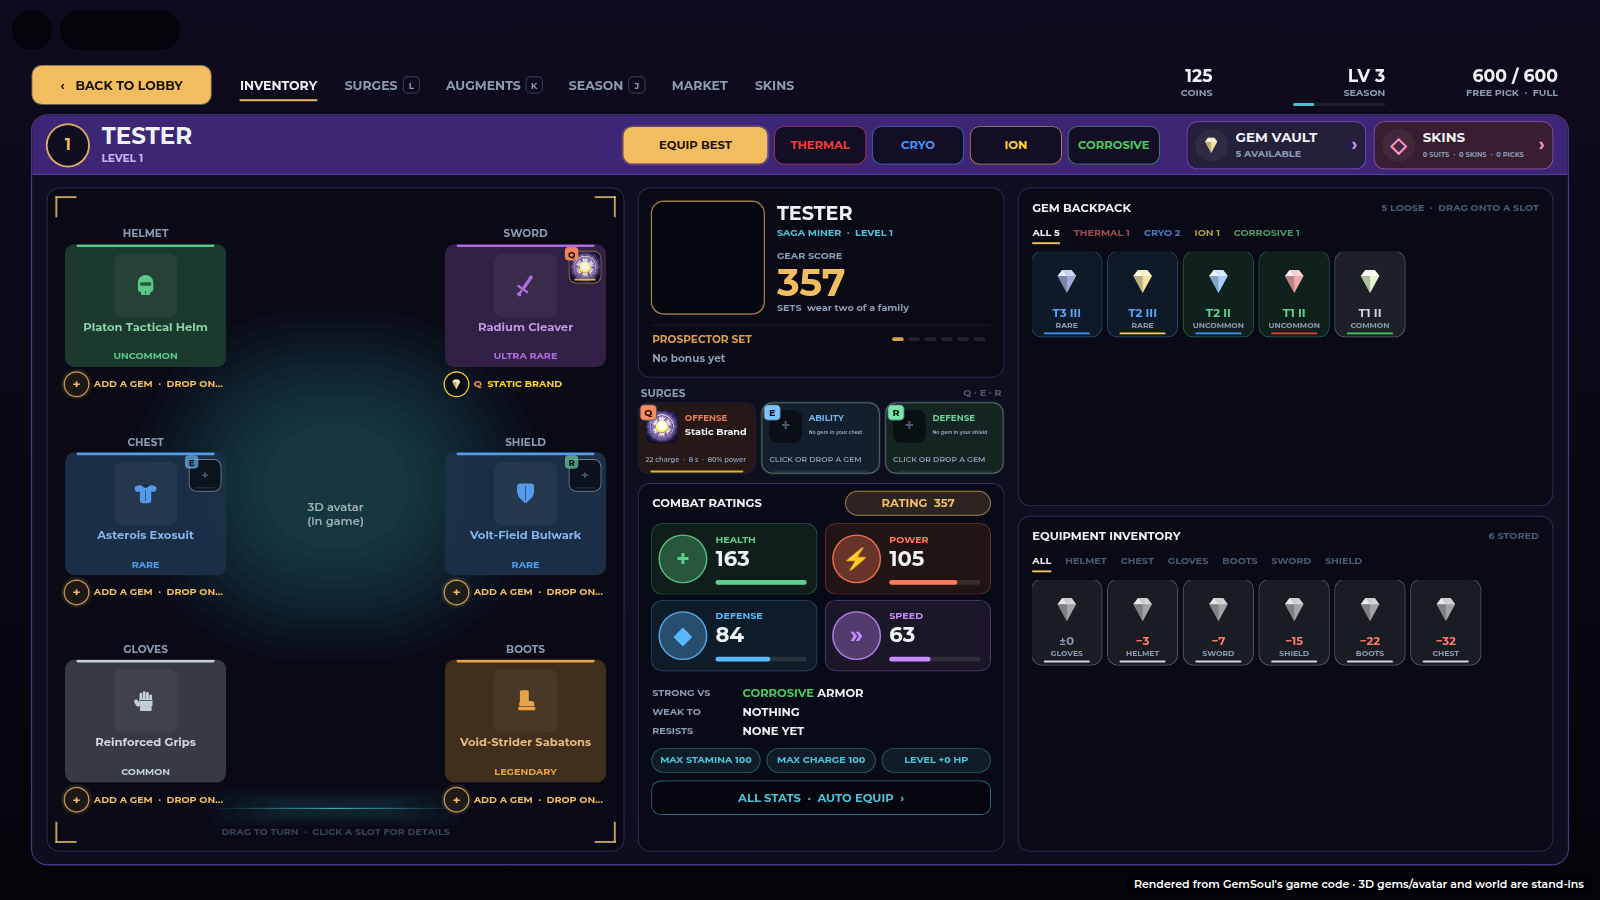
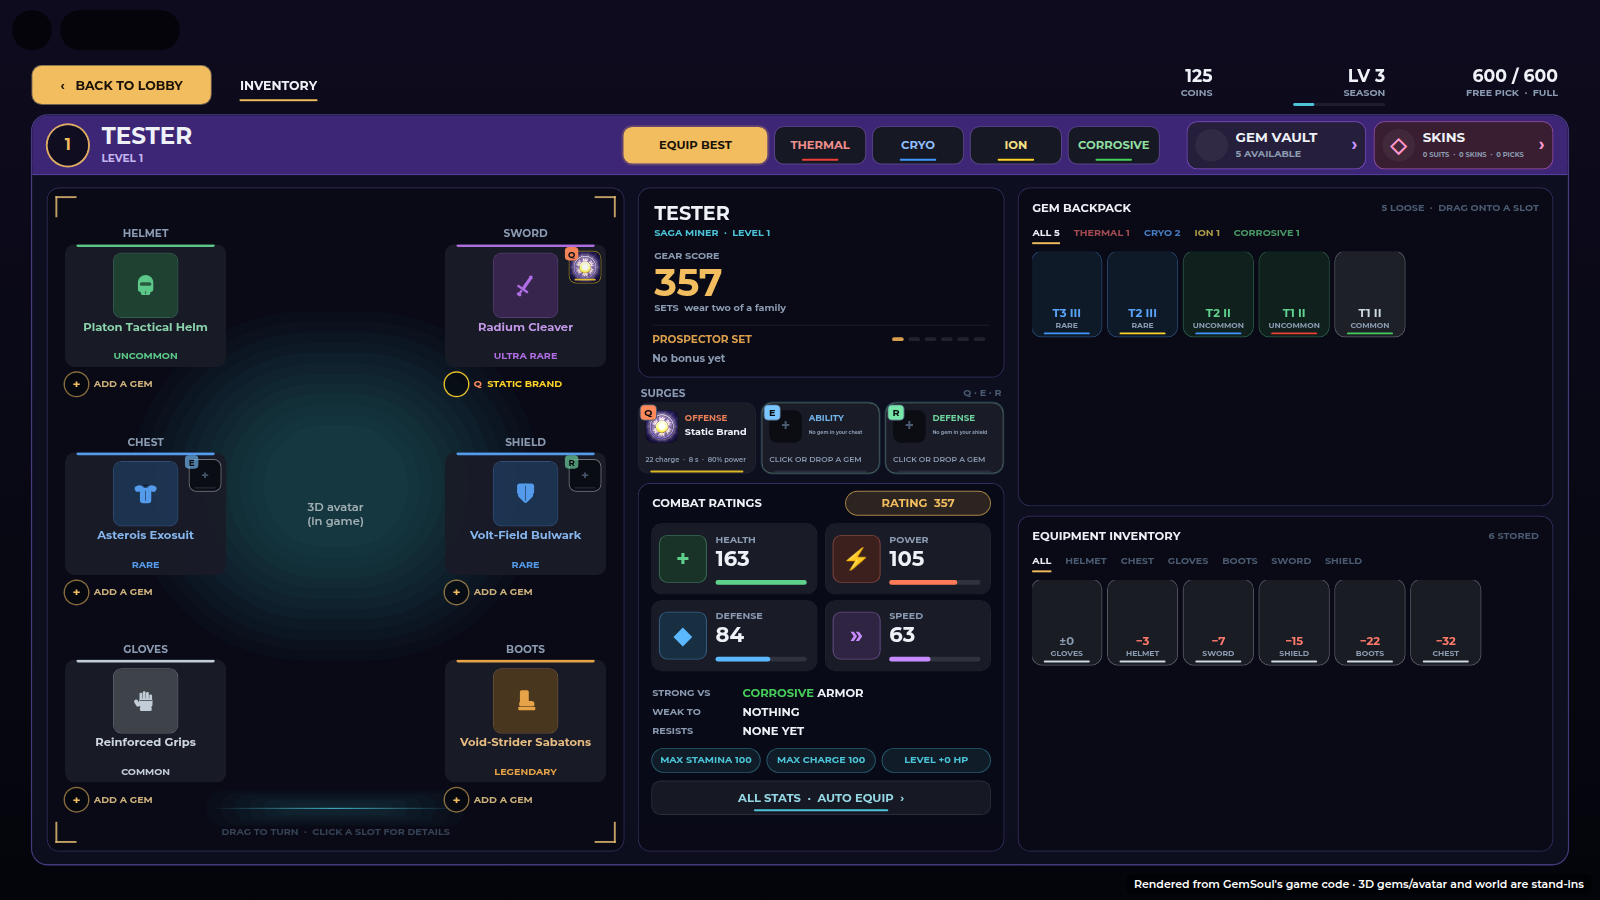
Inventory: a calmer look, same layout
One dark card for every slot, stat tile and Q/E/R key instead of a colour
wash over each. A slot's rarity is its top rail, its words and the well
its 3D art sits in (edged in the rarity under the pointer, gold while
its window is open); a stat's colour is its icon and its bar, the label
plain; Q, E and R keep their coloured badges. One gold button, EQUIP
BEST; ALL STATS, SKINS and the other buttons are plain dark ones, and
the element buttons carry a short bar in their colour instead of a neon
outline each. The empty-socket cue is a quieter gold ring and "ADD A
GEM". Nothing moves: every card, tile and button keeps its place.

Claude-Session: https://claude.ai/code/session_01M9AaiFqQ2dWL5tTu8tuKaL

diff --git a/docs/inventory.md b/docs/inventory.md
@@ -1,5 +1,28 @@
 # The Inventory: your gems, your gear, AUTO EQUIP
 
+## 2026-10-29: the art loads, and a calmer look
+
+**The slots' 3D art loads.** The pieces' pictures are 3D previews the server
+builds on request. The Inventory used to ask once, and that request was
+often lost to the server's pacing (the screen's other requests go at the
+same moment) or made while a build was running, so the slots stayed on the
+drawn stand-in icons. Now it asks when the Inventory opens and keeps asking
+until the server says every preview is built; a preview is drawn only once
+all its parts have arrived (the server counts them, "Parts"), and the slots
+redraw a moment after the last part lands. The UI's uploaded images (the
+surge icon sheet, the PLAY menu's mode art) are fetched as the game starts
+(`Modules/ImagePreload`), so their screens don't open with blank squares.
+
+**The look, same layout.** One dark card for every slot, stat and key
+instead of a colour wash over each: a slot's rarity is its top rail, its
+words and its art's well; a stat's colour is its icon and its bar; Q, E and
+R keep their coloured badges. One gold button (EQUIP BEST); ALL STATS,
+SKINS and the rest are plain, and the element buttons carry a short bar in
+their colour instead of a neon outline each. The empty-socket cue is one
+quiet gold ring and "ADD A GEM".
+
+![Phone, before and after](inventory/phone-before-after.png)
+
 ## The paper doll (current layout)
 
 The Inventory is now laid out like the old CharacterUI panel, updated for
@@ -16,7 +39,8 @@ it, a summary column, and the two backpacks on the right.
   buttons (AUTO EQUIP); GEM VAULT and SKINS.
 - **Paper doll**: Helmet, Chest and Gloves on the left; Sword, Shield and
   Boots on the right; the miner in the middle (drag to turn). Each slot is a
-  card tinted by the piece's rarity, with its gem socket underneath ("ADD A
+  dark card with the piece's rarity in its top rail, its name and the well
+  its 3D art sits in, with its gem socket underneath ("ADD A
   GEM" when the socket is empty, otherwise the gem and the Q/E/R move it
   gives). The Sword, Chest and Shield cards show their Q / E / R surge tile.
 - **Summary**: your name, GEAR SCORE (no avatar picture), the set bonus, the Q / E / R SURGES
